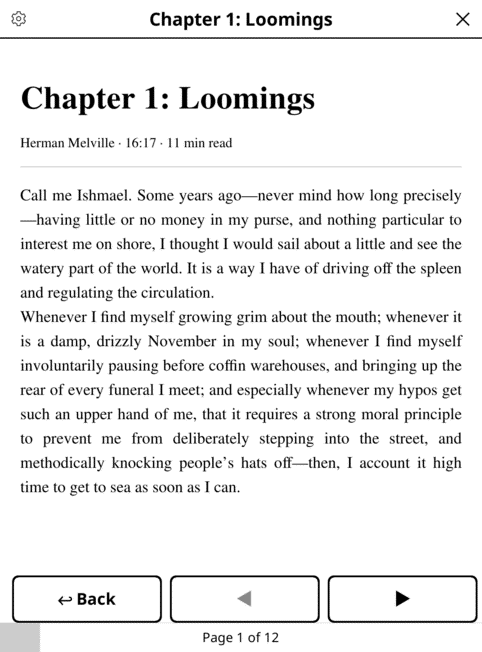
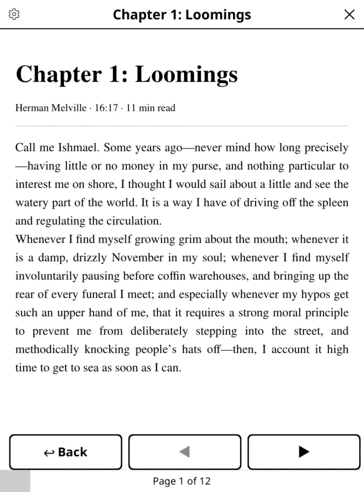
README GIFs: smaller, so they fit on a computer screen
The GIFs were 482 x 651 px and too tall on a computer screen. They are
now 364 x 492 px (34 %, same aspect ratio), built again from the original
frames for sharp text. make_gifs.sh takes the scale from SCALE.

Changed region(s): [[0.2418, 0.5793, 0.272, 0.6098], [0.1813, 0.9146, 0.2115, 0.9451]]

diff --git a/README.md b/README.md
@@ -22,7 +22,7 @@ The pictures in this README show the demo mode of the emulator. Their text is fr
 ### Navigation and cards
 
 <p align="center">
-  <img src="docs/images/views.gif" width="482" alt="Home screen, folder and the four card styles">
+  <img src="docs/images/views.gif" width="364" alt="Home screen, folder and the four card styles">
 </p>
 <p align="center"><em>The home screen, the folder "Classics" and one card list in the four card styles.</em></p>
 
@@ -41,7 +41,7 @@ The pictures in this README show the demo mode of the emulator. Their text is fr
 ### Reading
 
 <p align="center">
-  <img src="docs/images/quick-reader.gif" width="482" alt="Moby-Dick, chapter 1, in the quick reader">
+  <img src="docs/images/quick-reader.gif" width="364" alt="Moby-Dick, chapter 1, in the quick reader">
 </p>
 <p align="center"><em>A tap on the card opens Moby-Dick, chapter 1, in the quick reader. Each swipe up shows the next page.</em></p>
 
@@ -66,7 +66,7 @@ Controls of the quick reader:
 ### Reader settings
 
 <p align="center">
-  <img src="docs/images/reader-settings.gif" width="482" alt="Reader settings: font size, line spacing, font">
+  <img src="docs/images/reader-settings.gif" width="364" alt="Reader settings: font size, line spacing, font">
 </p>
 <p align="center"><em>A new font size, line spacing and font in the reader settings. The article shows each change.</em></p>
 

diff --git a/spec/emulator/README.md b/spec/emulator/README.md
@@ -124,6 +124,6 @@ wsl.exe -d Ubuntu-24.04 --exec bash -lc 'cd /mnt/c/Users/ar-ns/Documents/rssread
   `settings-*` (reader settings: font size 24, line spacing 2.0, font Noto Sans, the article after
   each change). `RSSREADER_EMU_STEPS` selects steps here too.
 - `make_gifs.sh FRAMES [OUT]` builds `views.gif`, `quick-reader.gif` and `reader-settings.gif` plus one
-  still PNG per GIF in `docs/images` (or OUT): 45 % size, 16 levels of gray, 1.7 s per frame, 3 s on the
+  still PNG per GIF in `docs/images` (or OUT): 34 % size (set SCALE to change it), 16 levels of gray, 1.7 s per frame, 3 s on the
   first and the last frame, endless loop.
 - Look at the frames before you commit new GIFs: no error dialog, readable text.
